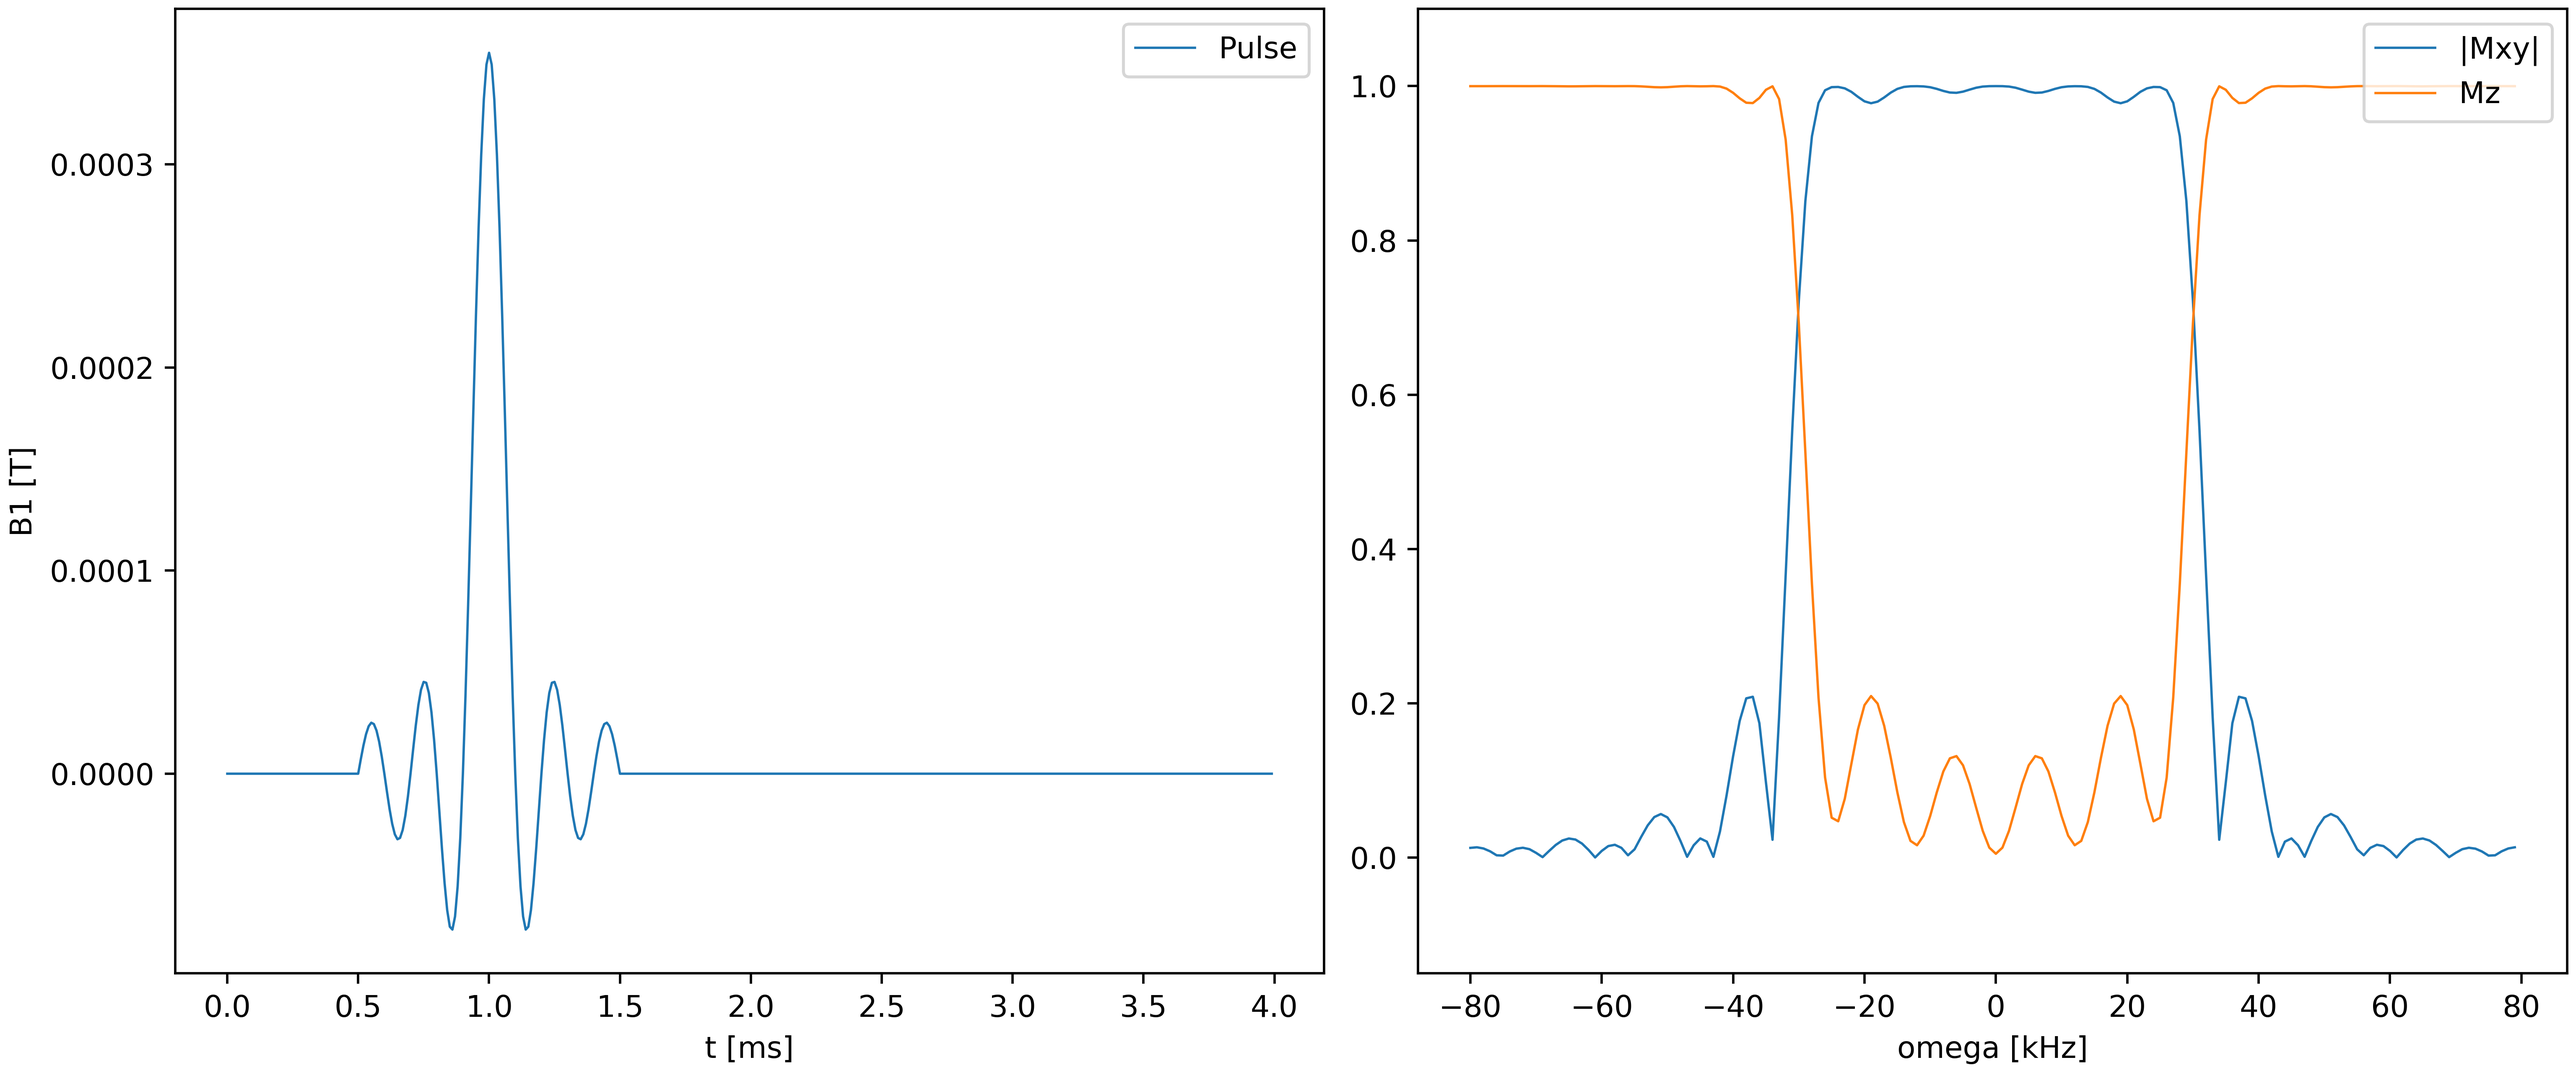
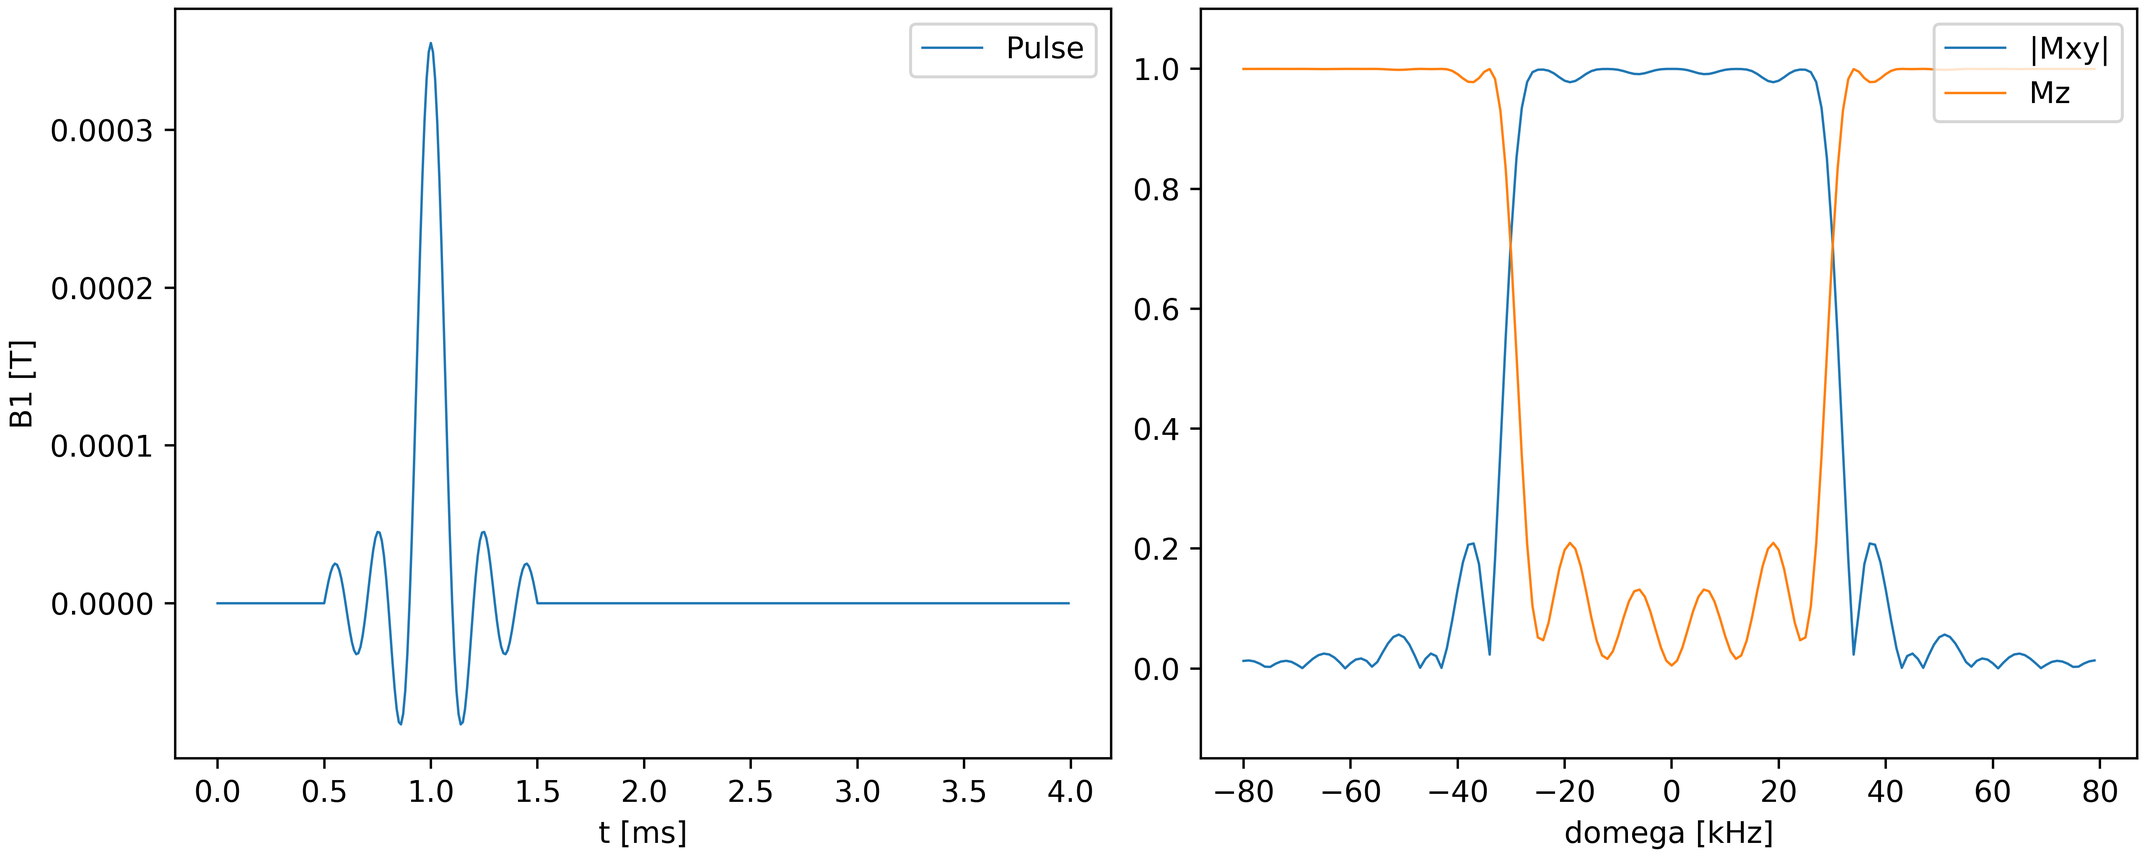
rebuilding site Sun 25 Dec 2022 18:50:57 CET

diff --git a/bloch2/index.html b/bloch2/index.html
@@ -26,25 +26,19 @@
     
     
     <meta property="og:title" content="Hobby Projects" />
-<meta property="og:description" content="Fit SIR model As part of my Python learning, I coded this little app, that generates simulated data of an infectious disease wave and then fits a simple SIR model. The user can choose between steepest descent and congugate gradient methods in a GUI.
-The source code is openly available at https://github.com/frank-roesler/SIR_fit
- " />
+<meta property="og:description" content="Deep Learning for MRI Pulse Sequences Frequency profile of RF pulse As explained in this post, the excitation response of nuclear spins with respect to a radiofrequency (RF) pulse is modeled by the Bloch equations, which can be solved numerically. The frequency profile excited by a given pulse can be obtained by solving the equations for a range of values of $\mathsf{\Delta\omega}$ around 0. It is often desired (e.g. for slice selection) to have a pulse, which excites a rectangular frequency profile of a certain width $\delta$." />
 <meta property="og:type" content="article" />
-<meta property="og:url" content="https://frank-roesler.github.io/sir/" /><meta property="article:section" content="" />
-<meta property="article:published_time" content="2020-08-16T21:06:16+01:00" />
-<meta property="article:modified_time" content="2020-08-16T21:06:16+01:00" />
+<meta property="og:url" content="https://frank-roesler.github.io/bloch2/" /><meta property="article:section" content="" />
+<meta property="article:published_time" content="2020-06-01T16:49:58+01:00" />
+<meta property="article:modified_time" content="2020-06-01T16:49:58+01:00" />
 
 <meta itemprop="name" content="Hobby Projects">
-<meta itemprop="description" content="Fit SIR model As part of my Python learning, I coded this little app, that generates simulated data of an infectious disease wave and then fits a simple SIR model. The user can choose between steepest descent and congugate gradient methods in a GUI.
-The source code is openly available at https://github.com/frank-roesler/SIR_fit
- "><meta itemprop="datePublished" content="2020-08-16T21:06:16+01:00" />
-<meta itemprop="dateModified" content="2020-08-16T21:06:16+01:00" />
-<meta itemprop="wordCount" content="52">
+<meta itemprop="description" content="Deep Learning for MRI Pulse Sequences Frequency profile of RF pulse As explained in this post, the excitation response of nuclear spins with respect to a radiofrequency (RF) pulse is modeled by the Bloch equations, which can be solved numerically. The frequency profile excited by a given pulse can be obtained by solving the equations for a range of values of $\mathsf{\Delta\omega}$ around 0. It is often desired (e.g. for slice selection) to have a pulse, which excites a rectangular frequency profile of a certain width $\delta$."><meta itemprop="datePublished" content="2020-06-01T16:49:58+01:00" />
+<meta itemprop="dateModified" content="2020-06-01T16:49:58+01:00" />
+<meta itemprop="wordCount" content="256">
 <meta itemprop="keywords" content="" /><meta name="twitter:card" content="summary"/>
 <meta name="twitter:title" content="Hobby Projects"/>
-<meta name="twitter:description" content="Fit SIR model As part of my Python learning, I coded this little app, that generates simulated data of an infectious disease wave and then fits a simple SIR model. The user can choose between steepest descent and congugate gradient methods in a GUI.
-The source code is openly available at https://github.com/frank-roesler/SIR_fit
- "/>
+<meta name="twitter:description" content="Deep Learning for MRI Pulse Sequences Frequency profile of RF pulse As explained in this post, the excitation response of nuclear spins with respect to a radiofrequency (RF) pulse is modeled by the Bloch equations, which can be solved numerically. The frequency profile excited by a given pulse can be obtained by solving the equations for a range of values of $\mathsf{\Delta\omega}$ around 0. It is often desired (e.g. for slice selection) to have a pulse, which excites a rectangular frequency profile of a certain width $\delta$."/>
 
 	
   </head>
@@ -138,15 +132,6 @@ The source code is openly available at https://github.com/frank-roesler/SIR_fit
 
 
 	  
-<h4></h4>
-<ul class="pl0 mr3">
-    
-    <li class="list f5 f4-ns fw4 dib pr3">
-        <a class="hover-white no-underline white-90" href="https://frank-roesler.github.io/de/sir/" style="font-size:16px">de</a>
-    </li>
-    
-</ul>
-
 
     </div>
   </div>
@@ -292,10 +277,16 @@ The source code is openly available at https://github.com/frank-roesler/SIR_fit
         </h1>
       </header>
       <div class="nested-copy-line-height lh-copy f4 nested-links nested-img mid-gray">
-        <h2 id="fit-sir-model">Fit SIR model</h2>
-<p>As part of my Python learning, I coded this little app, that generates simulated data of an infectious disease wave and then fits a simple <a href="https://en.wikipedia.org/wiki/Compartmental_models_in_epidemiology#The_SIR_model_without_vital_dynamics">SIR model</a>. The user can choose between steepest descent and congugate gradient methods in a GUI.<br>
-The source code is openly available at <a href="https://github.com/frank-roesler/SIR_fit">https://github.com/frank-roesler/SIR_fit</a></p>
-<figure class="center"><img src="/images/GUI_image.jpg"/>
+        <h2 id="deep-learning-for-mri-pulse-sequences">Deep Learning for MRI Pulse Sequences</h2>
+<h4 id="frequency-profile-of-rf-pulse">Frequency profile of RF pulse</h4>
+<p>As explained in <a href="/bloch">this post</a>, the excitation response of nuclear spins with respect to a radiofrequency (RF) pulse is modeled by the Bloch equations, which can be solved numerically. The frequency profile excited by a given pulse can be obtained by solving the equations for a range of values of $\mathsf{\Delta\omega}$ around 0. It is often desired (e.g. for slice selection) to have a pulse, which excites a rectangular frequency profile of a certain width $\delta$. That is, <em>only</em> frequencies in the range $\mathsf{\Delta\omega\in [-\delta,+\delta]}$ will be selectively excited uniformly. Heuristically, pulse shapes can be found, which approximately achieve this. One prominent shape is the <em>sinc pulse</em>, given by $\mathsf{B_{1,x}(t)\sim sin(t)/t}$. The following figure shows the frequency profile corresponding to a sinc pulse. As can be seen, it is approximately rectangular, but not perfect.</p>
+<figure><a href="/images/bloch_figures/freq_plot_sinc_t.png"><img src="/images/bloch_figures/freq_plot_sinc_t.png"/></a>
+</figure>
+
+<h4 id="deep-learning-yields-new-pulse-shapes">Deep Learning yields new pulse shapes</h4>
+<p>The task of finding new pulse shapes that better approximate a rectangular profile is highly non-trivial. One possible solution to this issue is provided by machine learning with artificial neural networks:<br>
+The process of adapting a pulse shape to better match a specific frequency profile can be understood as training a model function. A neural network turns out to be a natural choice for such a model function, since it can approximate pretty much any shape. Furthermore, neural nets can be trained efficiently, even on personal laptops. The figure below shows a pulse shape obtained by training a neural network, together with its frequency profile.</p>
+<figure><a href="/images/bloch_figures/freq_plot_t.png"><img src="/images/bloch_figures/freq_plot_t.png"/></a>
 </figure>
 
 

diff --git a/miscellaneous/index.html b/miscellaneous/index.html
@@ -26,19 +26,22 @@
     
     
     <meta property="og:title" content="Hobby Projects" />
-<meta property="og:description" content="On this page I collected some small mathematical simulations that I coded as a hobby and that are nice to watch (choose from the menu). All simulations are implemented in basic Matlab or Python and the corresponding codes are freely available on Github." />
+<meta property="og:description" content="On this page I collected some small mathematical simulations that I coded as a hobby and that are nice to watch (choose from the menu). All simulations are implemented in basic Matlab or Python and the corresponding codes are freely available on Github.
+      " />
 <meta property="og:type" content="article" />
 <meta property="og:url" content="https://frank-roesler.github.io/miscellaneous/" /><meta property="article:section" content="" />
 <meta property="article:published_time" content="2020-05-26T15:13:25+01:00" />
 <meta property="article:modified_time" content="2020-05-26T15:13:25+01:00" />
 
 <meta itemprop="name" content="Hobby Projects">
-<meta itemprop="description" content="On this page I collected some small mathematical simulations that I coded as a hobby and that are nice to watch (choose from the menu). All simulations are implemented in basic Matlab or Python and the corresponding codes are freely available on Github."><meta itemprop="datePublished" content="2020-05-26T15:13:25+01:00" />
+<meta itemprop="description" content="On this page I collected some small mathematical simulations that I coded as a hobby and that are nice to watch (choose from the menu). All simulations are implemented in basic Matlab or Python and the corresponding codes are freely available on Github.
+      "><meta itemprop="datePublished" content="2020-05-26T15:13:25+01:00" />
 <meta itemprop="dateModified" content="2020-05-26T15:13:25+01:00" />
 <meta itemprop="wordCount" content="43">
 <meta itemprop="keywords" content="" /><meta name="twitter:card" content="summary"/>
 <meta name="twitter:title" content="Hobby Projects"/>
-<meta name="twitter:description" content="On this page I collected some small mathematical simulations that I coded as a hobby and that are nice to watch (choose from the menu). All simulations are implemented in basic Matlab or Python and the corresponding codes are freely available on Github."/>
+<meta name="twitter:description" content="On this page I collected some small mathematical simulations that I coded as a hobby and that are nice to watch (choose from the menu). All simulations are implemented in basic Matlab or Python and the corresponding codes are freely available on Github.
+      "/>
 
 	
   </head>
@@ -245,6 +248,9 @@
 		<li class="menu-label">
 			<a class="menu-link" href="/bloch">Modelling MRI Pulses</a>
 		</li>
+		<li class="menu-label">
+			<a class="menu-link" href="/bloch2">Deep Learning in MRI</a>
+		</li>
 	</ul>
 	
 	<form>
@@ -263,6 +269,7 @@
 		<option value="/denoising">Denoising via ML</option>
 		<option value="/cs">Compressed Sensing</option>
 		<option value="/bloch">Modelling MRI Pulses</option>
+		<option value="/bloch2">Deep Learning in MRI</option>
     </select>
 	</form>
 </nav>
@@ -282,7 +289,13 @@
         </h1>
       </header>
       <div class="nested-copy-line-height lh-copy f4 nested-links nested-img mid-gray">
-        <p>On this page I collected some small mathematical simulations that I coded as a hobby and that are nice to watch (choose from the menu). All simulations are implemented in basic Matlab or Python and the corresponding codes are freely available on <a href="https://github.com/frank-roesler/Files">Github</a>.</p>
+        <p>On this page I collected some small mathematical simulations that I coded as a hobby and that are nice to watch (choose from the menu). All simulations are implemented in basic Matlab or Python and the corresponding codes are freely available on <a href="https://github.com/frank-roesler">Github</a>.</p>
+<p>   </p>
+<p>   </p>
+<p>   </p>
+<p>   </p>
+<p>   </p>
+<p>   </p>
 
       </div>
     </article>

diff --git a/cs/index.html b/cs/index.html
@@ -248,6 +248,9 @@ The main idea behind the compressed sensing method is to exploit the fact that m
 		<li class="menu-label">
 			<a class="menu-link" href="/bloch">Modelling MRI Pulses</a>
 		</li>
+		<li class="menu-label">
+			<a class="menu-link" href="/bloch2">Deep Learning in MRI</a>
+		</li>
 	</ul>
 	
 	<form>
@@ -266,6 +269,7 @@ The main idea behind the compressed sensing method is to exploit the fact that m
 		<option value="/denoising">Denoising via ML</option>
 		<option value="/cs">Compressed Sensing</option>
 		<option value="/bloch">Modelling MRI Pulses</option>
+		<option value="/bloch2">Deep Learning in MRI</option>
     </select>
 	</form>
 </nav>

diff --git a/flatten/index.html b/flatten/index.html
@@ -251,6 +251,9 @@ The code is here: https://github.com/frank-roesler/Files/blob/master/Flatten_cur
 		<li class="menu-label">
 			<a class="menu-link" href="/bloch">Modelling MRI Pulses</a>
 		</li>
+		<li class="menu-label">
+			<a class="menu-link" href="/bloch2">Deep Learning in MRI</a>
+		</li>
 	</ul>
 	
 	<form>
@@ -269,6 +272,7 @@ The code is here: https://github.com/frank-roesler/Files/blob/master/Flatten_cur
 		<option value="/denoising">Denoising via ML</option>
 		<option value="/cs">Compressed Sensing</option>
 		<option value="/bloch">Modelling MRI Pulses</option>
+		<option value="/bloch2">Deep Learning in MRI</option>
     </select>
 	</form>
 </nav>

diff --git a/perfdom/index.html b/perfdom/index.html
@@ -248,6 +248,9 @@ I have implemented two different methods of computing the homogenized diffusion 
 		<li class="menu-label">
 			<a class="menu-link" href="/bloch">Modelling MRI Pulses</a>
 		</li>
+		<li class="menu-label">
+			<a class="menu-link" href="/bloch2">Deep Learning in MRI</a>
+		</li>
 	</ul>
 	
 	<form>
@@ -266,6 +269,7 @@ I have implemented two different methods of computing the homogenized diffusion 
 		<option value="/denoising">Denoising via ML</option>
 		<option value="/cs">Compressed Sensing</option>
 		<option value="/bloch">Modelling MRI Pulses</option>
+		<option value="/bloch2">Deep Learning in MRI</option>
     </select>
 	</form>
 </nav>

diff --git a/radon/index.html b/radon/index.html
@@ -248,6 +248,9 @@ The inverse Radon transform (IRT for short; sometimes also called filtered backp
 		<li class="menu-label">
 			<a class="menu-link" href="/bloch">Modelling MRI Pulses</a>
 		</li>
+		<li class="menu-label">
+			<a class="menu-link" href="/bloch2">Deep Learning in MRI</a>
+		</li>
 	</ul>
 	
 	<form>
@@ -266,6 +269,7 @@ The inverse Radon transform (IRT for short; sometimes also called filtered backp
 		<option value="/denoising">Denoising via ML</option>
 		<option value="/cs">Compressed Sensing</option>
 		<option value="/bloch">Modelling MRI Pulses</option>
+		<option value="/bloch2">Deep Learning in MRI</option>
     </select>
 	</form>
 </nav>

diff --git a/reconstruction/index.html b/reconstruction/index.html
@@ -248,6 +248,9 @@ The Matlab code is available at https://github.com/frank-roesler/Files/blob/mast
 		<li class="menu-label">
 			<a class="menu-link" href="/bloch">Modelling MRI Pulses</a>
 		</li>
+		<li class="menu-label">
+			<a class="menu-link" href="/bloch2">Deep Learning in MRI</a>
+		</li>
 	</ul>
 	
 	<form>
@@ -266,6 +269,7 @@ The Matlab code is available at https://github.com/frank-roesler/Files/blob/mast
 		<option value="/denoising">Denoising via ML</option>
 		<option value="/cs">Compressed Sensing</option>
 		<option value="/bloch">Modelling MRI Pulses</option>
+		<option value="/bloch2">Deep Learning in MRI</option>
     </select>
 	</form>
 </nav>

diff --git a/reinforcement/index.html b/reinforcement/index.html
@@ -248,6 +248,9 @@ In a nutshell, a DQN algorithm assigns a value to any possible move in a given s
 		<li class="menu-label">
 			<a class="menu-link" href="/bloch">Modelling MRI Pulses</a>
 		</li>
+		<li class="menu-label">
+			<a class="menu-link" href="/bloch2">Deep Learning in MRI</a>
+		</li>
 	</ul>
 	
 	<form>
@@ -266,6 +269,7 @@ In a nutshell, a DQN algorithm assigns a value to any possible move in a given s
 		<option value="/denoising">Denoising via ML</option>
 		<option value="/cs">Compressed Sensing</option>
 		<option value="/bloch">Modelling MRI Pulses</option>
+		<option value="/bloch2">Deep Learning in MRI</option>
     </select>
 	</form>
 </nav>

diff --git a/turing/index.html b/turing/index.html
@@ -248,6 +248,9 @@ The Matlab code is available at https://github.com/frank-roesler/Files/blob/mast
 		<li class="menu-label">
 			<a class="menu-link" href="/bloch">Modelling MRI Pulses</a>
 		</li>
+		<li class="menu-label">
+			<a class="menu-link" href="/bloch2">Deep Learning in MRI</a>
+		</li>
 	</ul>
 	
 	<form>
@@ -266,6 +269,7 @@ The Matlab code is available at https://github.com/frank-roesler/Files/blob/mast
 		<option value="/denoising">Denoising via ML</option>
 		<option value="/cs">Compressed Sensing</option>
 		<option value="/bloch">Modelling MRI Pulses</option>
+		<option value="/bloch2">Deep Learning in MRI</option>
     </select>
 	</form>
 </nav>

diff --git a/gan/index.html b/gan/index.html
@@ -248,6 +248,9 @@ The discriminator is trained to distinguish the real images (i."/>
 		<li class="menu-label">
 			<a class="menu-link" href="/bloch">Modelling MRI Pulses</a>
 		</li>
+		<li class="menu-label">
+			<a class="menu-link" href="/bloch2">Deep Learning in MRI</a>
+		</li>
 	</ul>
 	
 	<form>
@@ -266,6 +269,7 @@ The discriminator is trained to distinguish the real images (i."/>
 		<option value="/denoising">Denoising via ML</option>
 		<option value="/cs">Compressed Sensing</option>
 		<option value="/bloch">Modelling MRI Pulses</option>
+		<option value="/bloch2">Deep Learning in MRI</option>
     </select>
 	</form>
 </nav>

diff --git a/bloch/index.html b/bloch/index.html
@@ -236,6 +236,9 @@
 		<li class="menu-label">
 			<a class="menu-link" href="/bloch">Modelling MRI Pulses</a>
 		</li>
+		<li class="menu-label">
+			<a class="menu-link" href="/bloch2">Deep Learning in MRI</a>
+		</li>
 	</ul>
 	
 	<form>
@@ -254,6 +257,7 @@
 		<option value="/denoising">Denoising via ML</option>
 		<option value="/cs">Compressed Sensing</option>
 		<option value="/bloch">Modelling MRI Pulses</option>
+		<option value="/bloch2">Deep Learning in MRI</option>
     </select>
 	</form>
 </nav>

diff --git a/denoising/index.html b/denoising/index.html
@@ -245,6 +245,9 @@
 		<li class="menu-label">
 			<a class="menu-link" href="/bloch">Modelling MRI Pulses</a>
 		</li>
+		<li class="menu-label">
+			<a class="menu-link" href="/bloch2">Deep Learning in MRI</a>
+		</li>
 	</ul>
 	
 	<form>
@@ -263,6 +266,7 @@
 		<option value="/denoising">Denoising via ML</option>
 		<option value="/cs">Compressed Sensing</option>
 		<option value="/bloch">Modelling MRI Pulses</option>
+		<option value="/bloch2">Deep Learning in MRI</option>
     </select>
 	</form>
 </nav>
